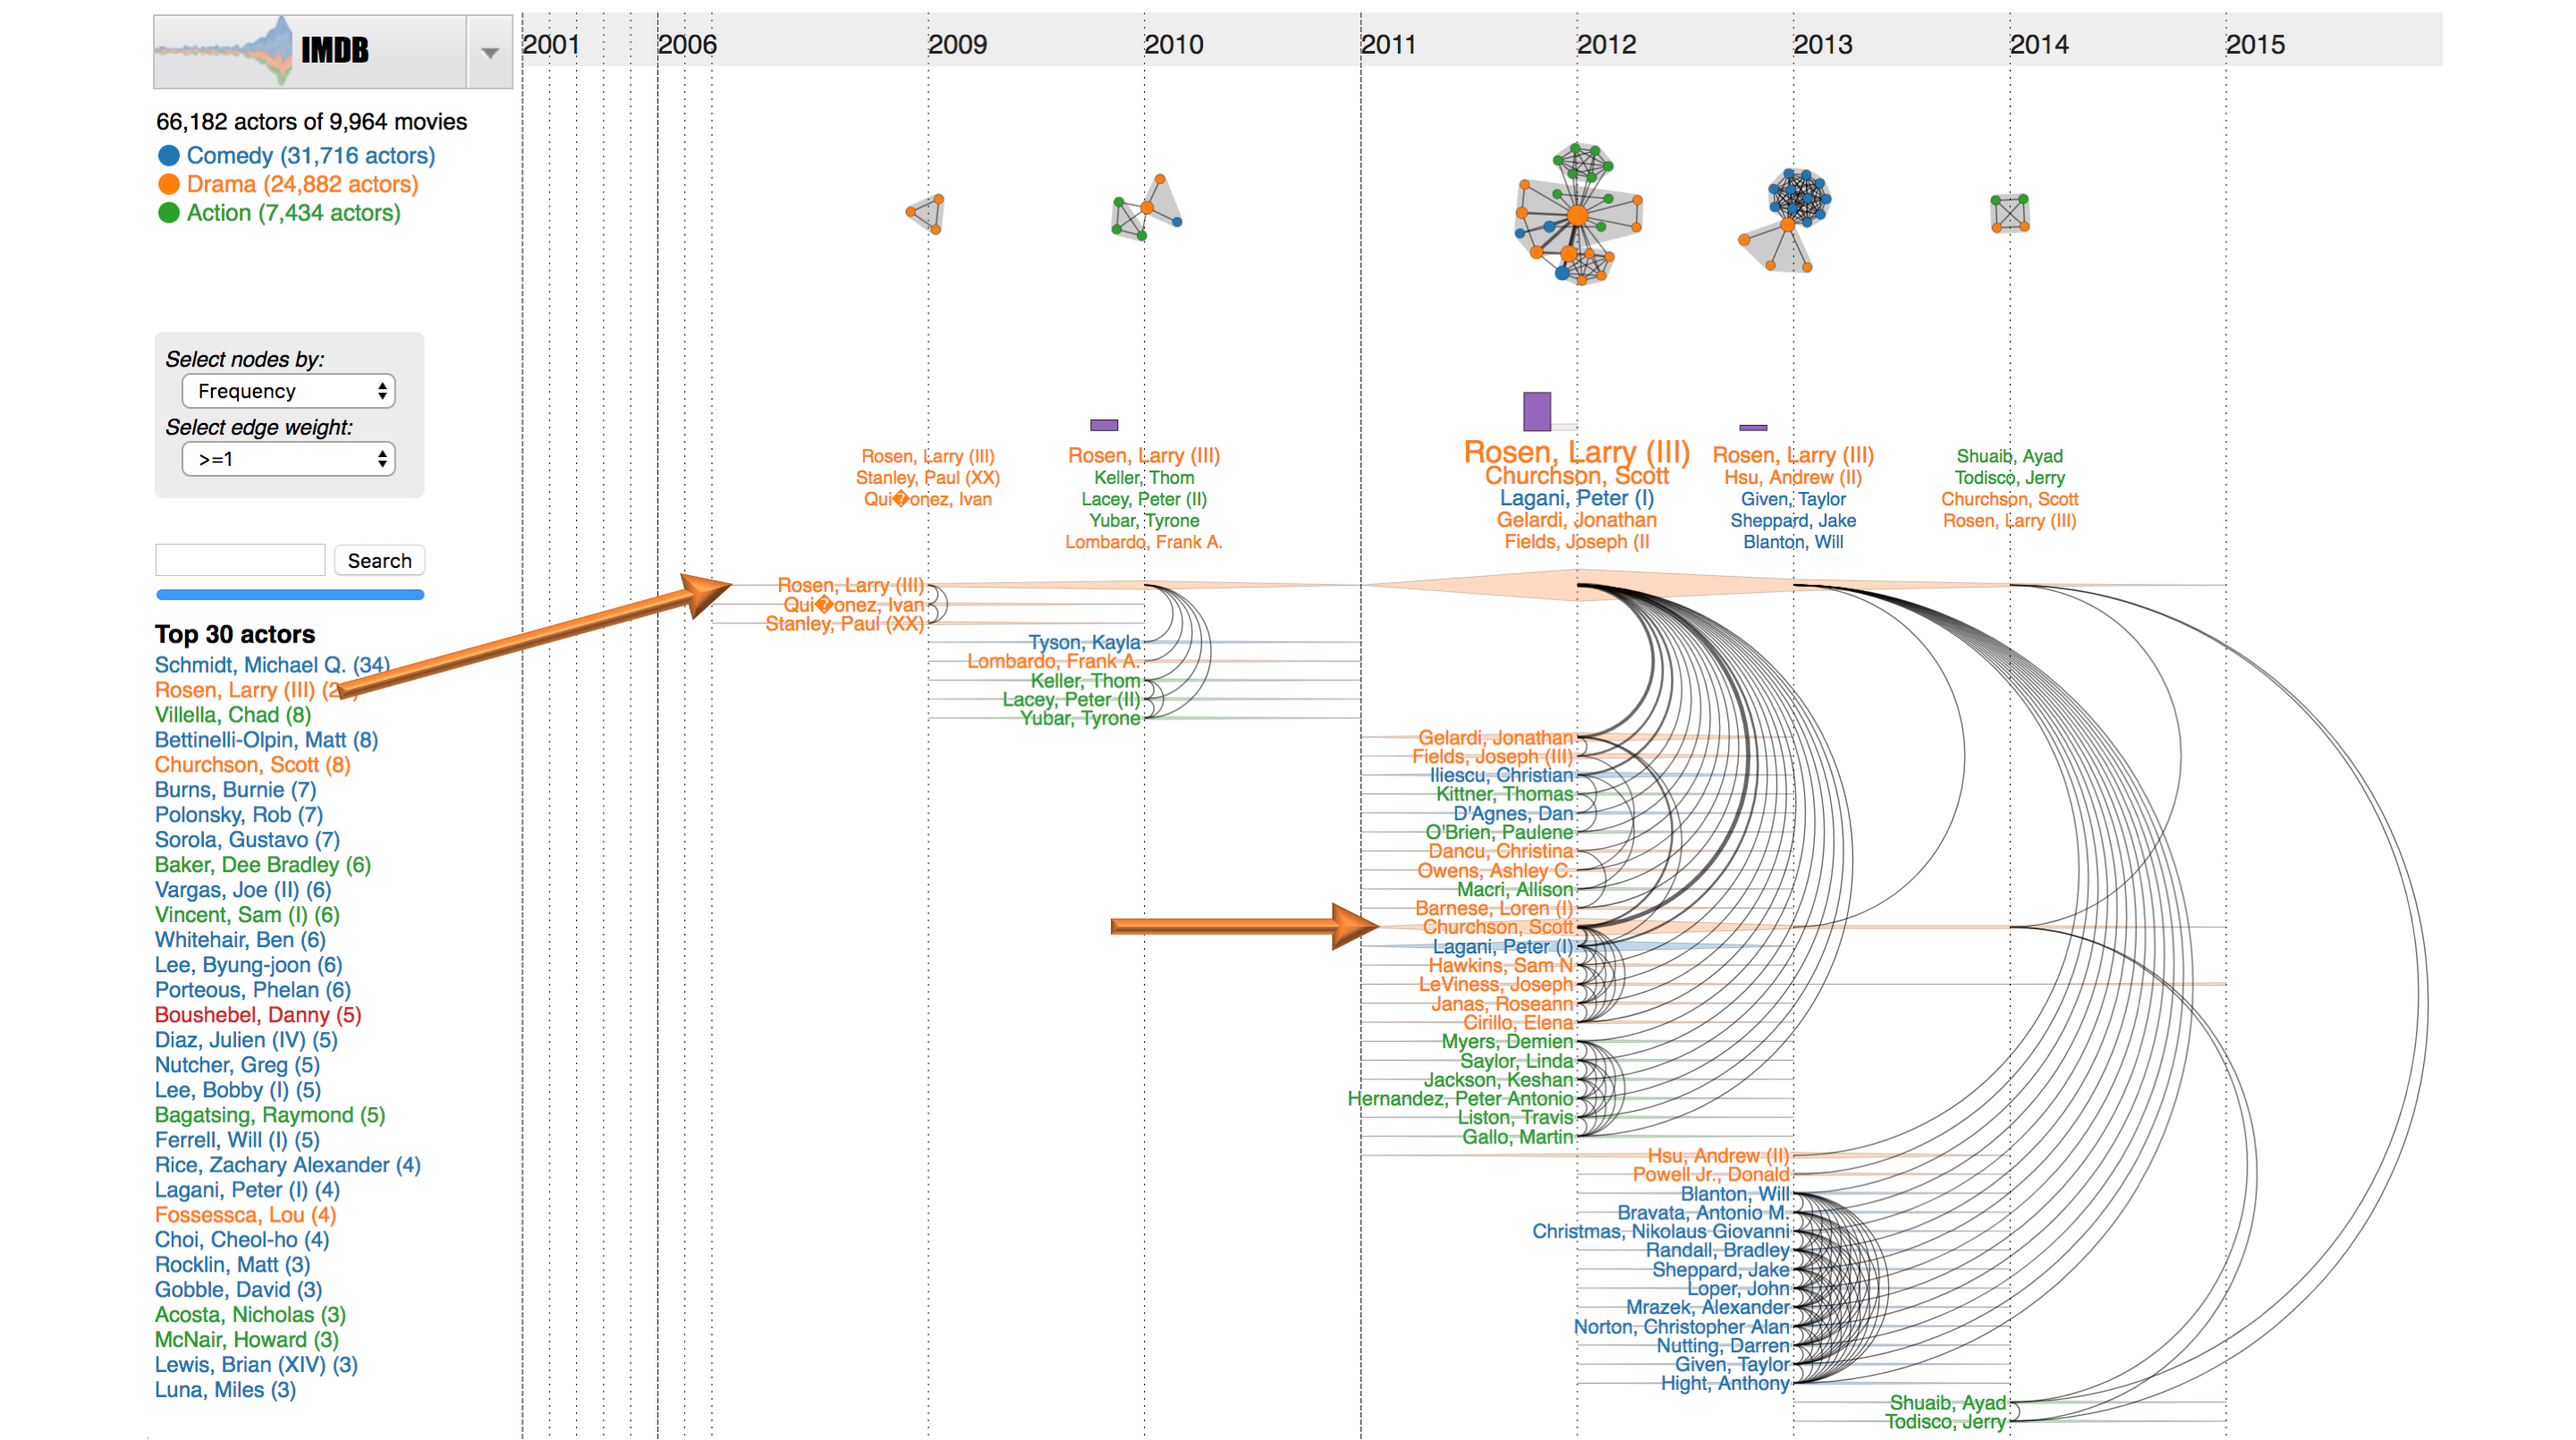
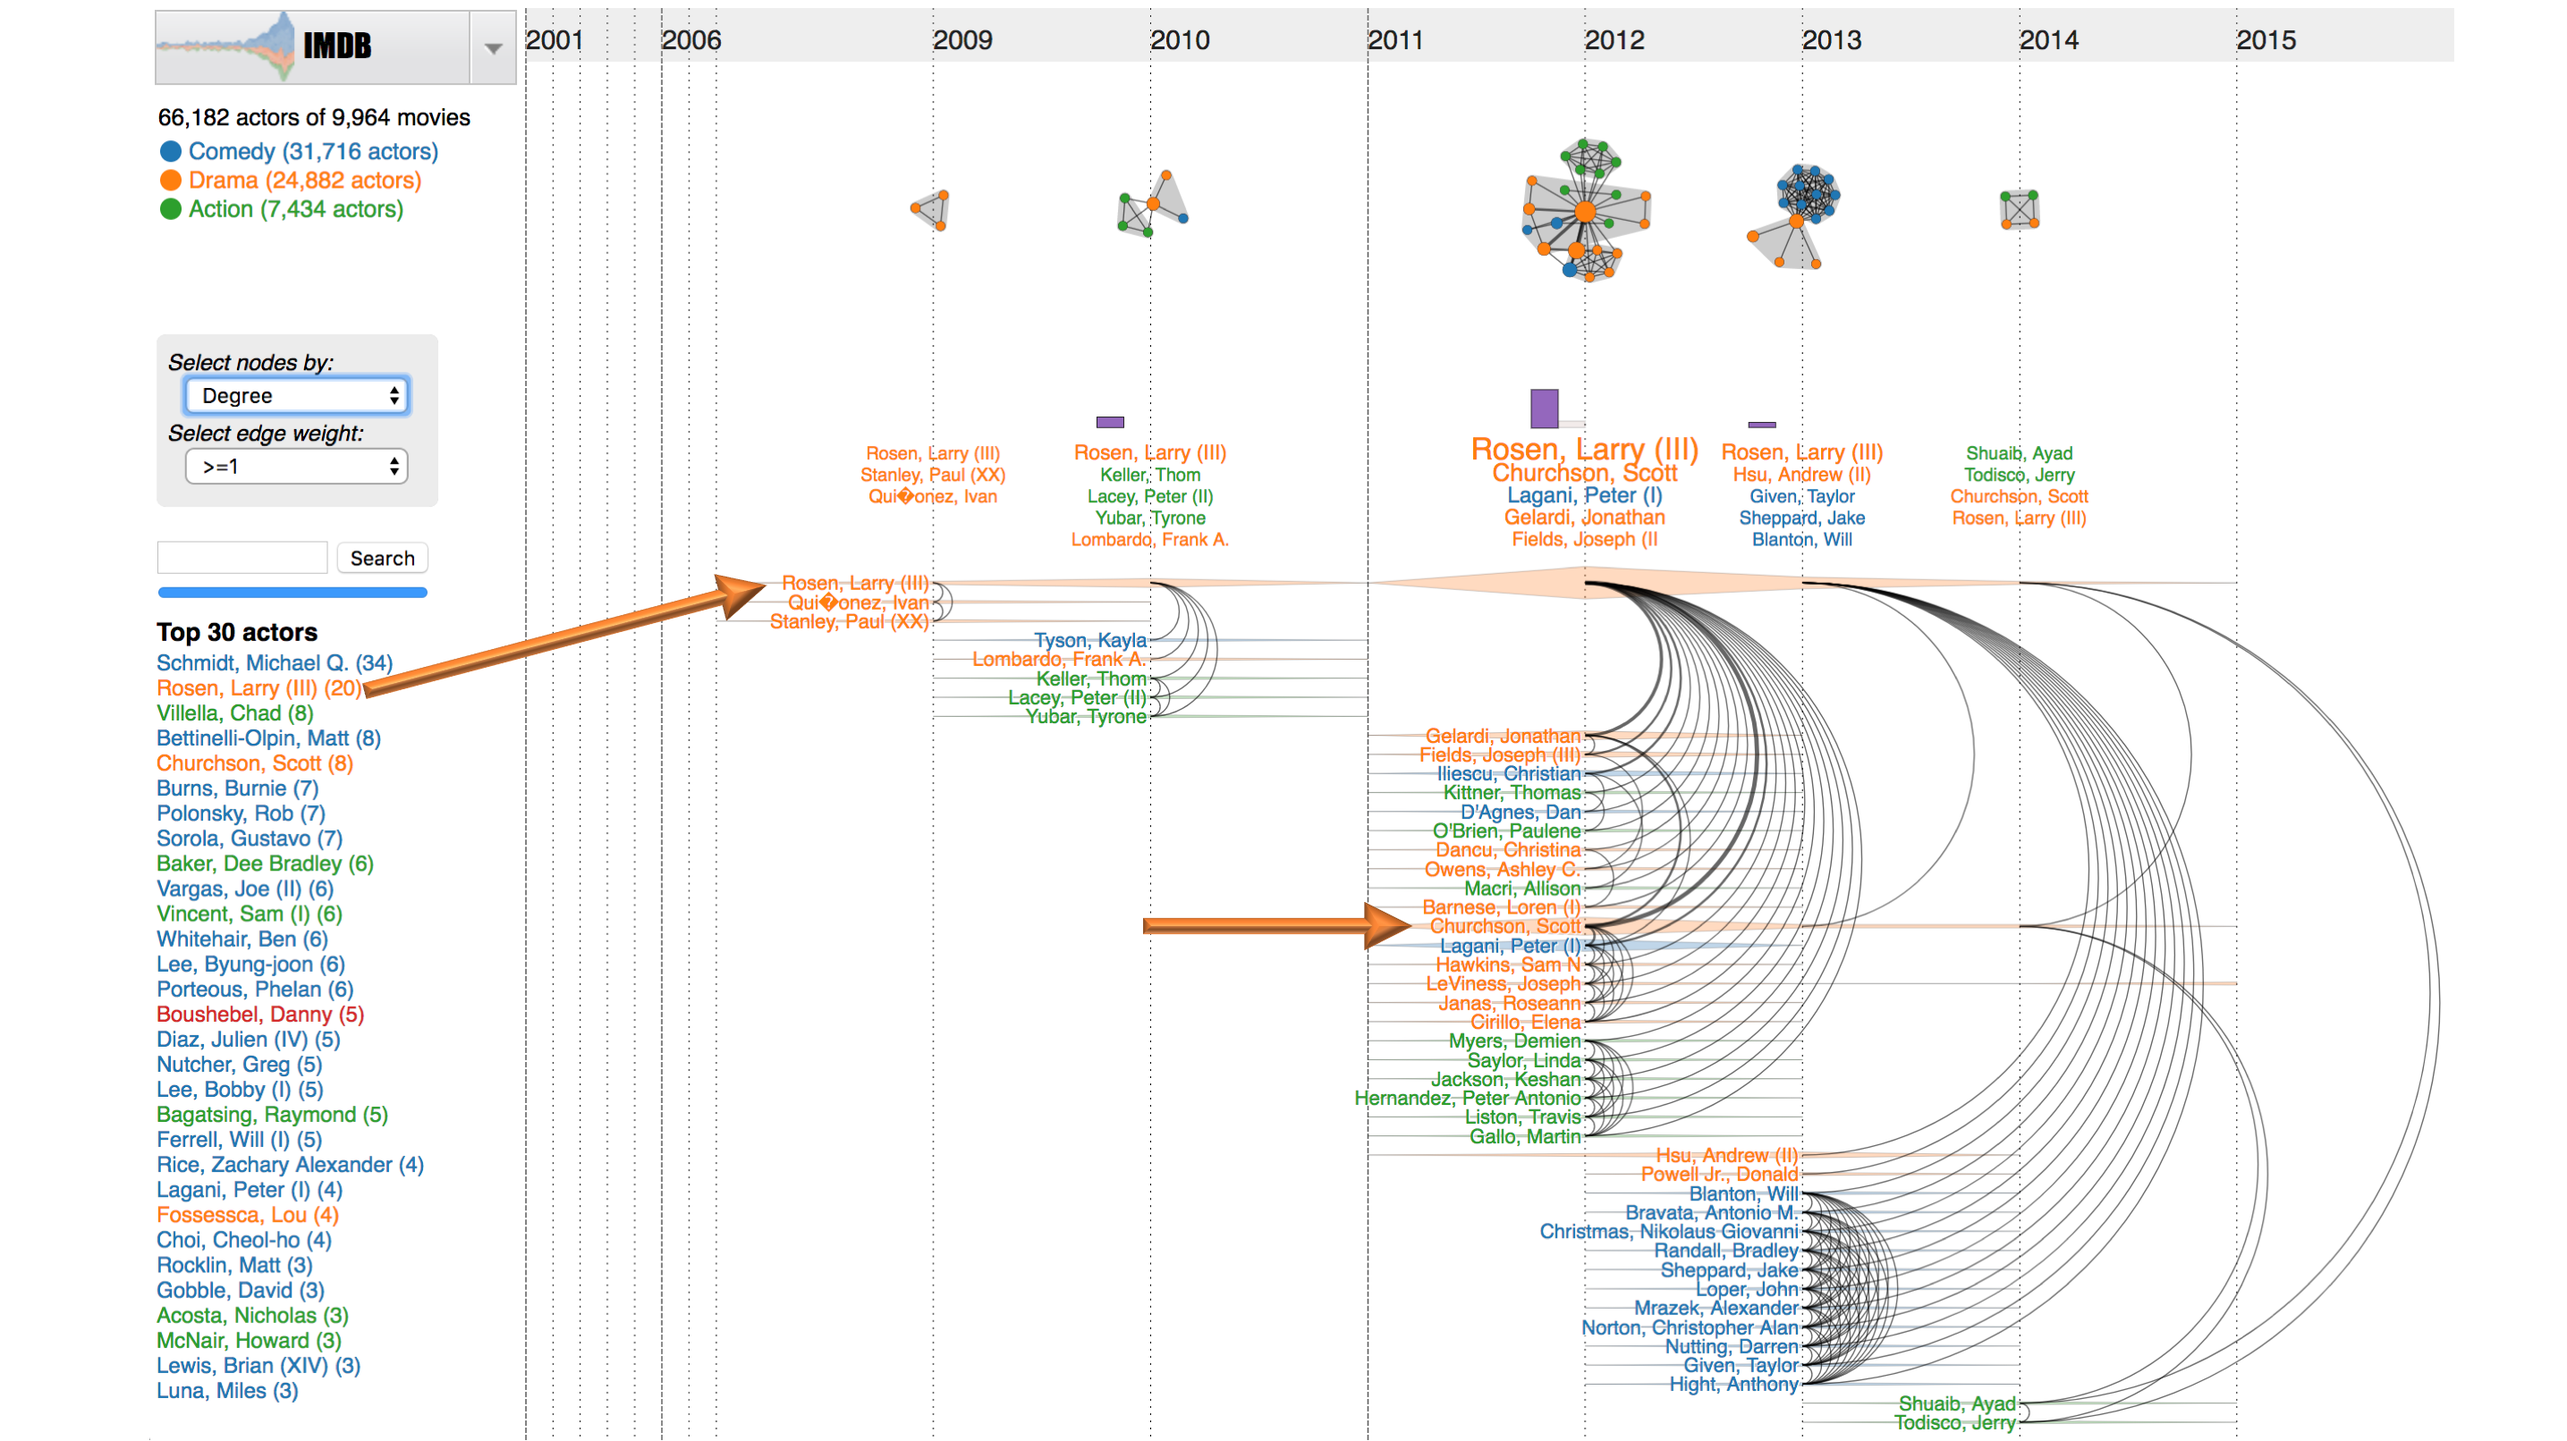
update

diff --git a/usecases.html b/usecases.html
@@ -56,26 +56,28 @@
 
 <h3>2. Other applications</h3>
 Although originally motivated to analyze text documents, we soon realized that <i>DycomDetector</i> has more general implications to other domains as well. We are going to demonstrate <i>DycomDetector</i> on the two movie co-star networks (<i>IMDB</i> and <i>PopCha</i>)
-<h4>2.1 IMDB co-star network</h4>
+<h4>2.1. IMDB co-star network</h4>
 	On the bottom left panel, we provide the list of top actors based on their appearance frequency in 9,964 movies rated 8 stars or higher from 1975 to 2015. This collection has 66,182 actors that are color-coded based on genre of his/her first movie: <span style="color:#2077b5">comedy</span>, <span style="color:#ff7f0f">drama</span>, and <span style="color:#2c9f2e">action</span>. Two actors relate as they act in the same movie. When users select an actor from the list (for example, <span style="color:#2077b5">Schmidt, Michael Q.</span>), the network on the right summarizes his acting career. In particular, each detected community on the top is associated to a highly rated movie. Larger clusters are movies with more actors/actresses.
 	<center><img src="images2/picsUsecases2/IMDB1.png" width="94%" alt="DycomDetector" /></center>
 In the second example of IMDB data, we selected <span style="color:#ff7f0f">Rosen, Larry (III)</span> (at the origin of the left arrow). As shown in the time series, he has many good movies in 2012. Four out of these movies, <span style="color:#ff7f0f">Rosen, Larry (III)</span> co-stars with <span style="color:#ff7f0f">Churchson, Scott</span> (at the second arrow) in <span style="color:#2077b5">Lola</span>, <span style="color:#ff7f0f">Nowhere to Hide</span>, <span style="color:#ff7f0f">Last Night</span>, and <span style="color:#ff7f0f">The Edge</span>. This is highlighted by the thickest arc connecting the two actors in 2012. Also notice that, the duo filmed <span style="color:#ff7f0f">Wrong Place, Wrong Time</span> (2013) and <span style="color:#2c9f2e">No One to Protect You</span> (2014). Movie details are displayed on mousing over links/arcs.
-	<center><img src="images2/picsUsecases2/IMDB2.png" width="87%" alt="DycomDetector" /></center>
+	<center><img src="images2/picsUsecases2/IMDB2.png" width="90%" alt="DycomDetector" /></center>
 
-<h4>2.2 PopCha movie network</h4>
+<h4>2.2. PopCha movie network</h4>
 The <a href="https://www.themoviedb.org/">PopCha database</a> has 172 movies and 1,201 actors. As depicted in the network snapshots, some actors involve multiple movies in the same year. When inspecting the time series and arc diagrams, we can see that some actors have the same co-actors over years, possibly in the same TV shows.
 
 	<center><img src="images2/picsUsecases2/PopCha1.png" width="92%" alt="DycomDetector" /></center>
 
-<h4>2.3 IEEE Visualization (IEEE VIS) publications</h4>
+<h4>2.3. IEEE Visualization publications</h4>
 	<a href="http://www.vispubdata.org/site/vispubdata/home">The IEEE VIS dataset</a> has 2,867 visualization papers accepted in 1990-2016. In following figure, we selected “<span style="color:#2c9f2e">Chris North</span>” from the top authors list (at the origin of the green arrow). Nodes are <span style="color:#2c9f2e">North</span>'s co-authors on his IEEE VIS publications which are ranked and scaled based on their publication frequency. Two authors are connected as they publish together to one of the IEEE VIS venues: <span style="color:#2077b5">Vis</span>, <span style="color:#ff7f0f">VAST</span>, <span style="color:#2c9f2e">InfoVis</span> , and <span style="color:#d52829">SciVis</span>. Detected communities on the top associate with <span style="color:#2c9f2e">North</span>'s VIS papers. The networks are empty in 2007 and 2008 since he did not have IEEE VIS publications in these two years. After that, <span style="color:#2c9f2e">North</span>'s collaboration is expanded significantly. Visualizing the time series, we can easily spot researchers who have strong collaborations with <span style="color:#2c9f2e">Chris North</span>. For example, his <a href="http://people.cs.vt.edu/~north/North-CV.pdf">PhD students</a>, <span style="color:#2c9f2e">Alex Endert</span> (<a href="http://va.gatech.edu/endert/bio/">graduated in 2012</a>) and <span style="color:#2c9f2e">Christopher Andrews</span> (<a href="http://www.cs.middlebury.edu/~candrews/resources/Andrews_CV.pdf">graduated in 2011</a>) at the orange arrows, continuously published at VIS conferences from 2009 to 2013.  
 	<center><img src="images2/picsUsecases2/VIS_ChrisNorth.png" width="96%" alt="DycomDetector" /></center>
 
 In another example, we have filtered “<span style="color:#2077b5">Daniel Keim</span>” publications. Larger nodes are authors with more publications in a given year. Authors are color-coded by their first publication venue. The word clouds show top co-authors of <span style="color:#2077b5">Keim</span> over years. The arcs diagrams at the bottom summarize <span style="color:#2077b5">Keim</span>'s collaboration network in the past 15 years. At the second blue arrow, <span style="color:#2077b5">Tobias Schreck</span> has a long collaboration history with <span style="color:#2077b5">Daniel Keim</span> since he was a PhD student (<a href="https://www.tugraz.at/institute/cgv/Schreck/">2002-2006</a>).
 	<center><img src="images2/picsUsecases2/VIS_DanielKeim.png" width="96%" alt="DycomDetector" /></center>
 
-<h4>2.3 IEEE Visualization (IEEE VIS) publications</h4>
-<center><img src="images2/picsUsecases2/VIS_DanielKeim.png" width="96%" alt="DycomDetector" /></center>
+<h4>2.4. Protein networks extracted from scientific literature</h4>
+<a href="https://github.com/clulab/reach/wiki/Datasets">The Fries Cards</a> is provided by <a href="https://github.com/clulab/reach">REACH group</a> at the University of Arizona. The following example shows a subset of 5,267 cards extracted from PMC papers from 1996-2015 focusing on two types of protein interactions: <span style="color:#2077b5">increase activity</span> and <span style="color:#ff7f0f">decrease activity</span>. The detected communities in network snapshots highligh proteins/proteins family and their interactions discovered over time. We can focus on the discovery around an interested protein by using the search box or mousing over its name in the time series. Conflicting examples (one paper says <i>protein A</i> <span style="color:#2077b5">increases activity</span> of <i>protein B</i> while another paper says <i>protein A</i> <span style="color:#ff7f0f">decreases activity</span> of <i>protein B</i>) can be detected using <i>DycomDetector</i>.
+
+<center><img src="images2/picsUsecases2/Cards_Fries.png" width="96%" alt="DycomDetector" /></center>
 	
 </div>
 

diff --git a/myscripts/main.js b/myscripts/main.js
@@ -42,7 +42,7 @@ var selectedCut;
 
 
 var XGAP_; // gap between months on xAxis
-var numLens = 4;
+var numLens = 3;
 
 function xScale(m) {
     if (isLensing) {
@@ -92,7 +92,7 @@ var isForFigure4 = false;
 
 var fileList = ["WikiNews","Huffington","CrooksAndLiars","EmptyWheel","Esquire","FactCheck"
                 ,"VIS_papers","IMDB","PopCha","Cards_PC","Cards_Fries"]
-var initialDataset = "VIS_papers";
+var initialDataset = "Cards_Fries";
 
 var fileName;
 
@@ -175,8 +175,8 @@ function loadData(){
             snapshotScale = 0.22; 
             if (fileName.indexOf("VIS")>=0){
                // minYear = 2000;
-                snapshotScale = 0.14;   
-                maxRel = 10;
+               // snapshotScale = 0.14;   
+               // maxRel = 10;
             }
             else if (fileName.indexOf("IMDB")>=0){
                 minYear = 1975;   // IMDB first movie was in 1919
@@ -186,15 +186,22 @@ function loadData(){
             }  
             else if (fileName.indexOf("PopCha")>=0){
                 minYear = 1980;   // PopCha first movie was in 1937
+
             }  
             else if (fileName.indexOf("Cards_PC")>=0){
                 snapshotScale = 0.17;    // PopCha first movie was in 1937
+            }  
+            else if (fileName.indexOf("Cards_Fries")>=0){
+                minYear = 1995; 
+                maxNodesInSnapshot = 50;
+                maxRel = 5;
+                snapshotScale = 0.20;    // PopCha first movie was in 1937
             }   
 
             //minYear = 2004;
             // Update months
             numMonth = maxYear - minYear +1;
-            XGAP_ = (width-xStep-110)/numMonth; // gap between months on xAxis
+            XGAP_ = (width-xStep-10)/numMonth; // gap between months on xAxis
 
             data.forEach(function (d) {    
                 d.m = d.m-minYear;

diff --git a/myscripts/main2.js b/myscripts/main2.js
@@ -20,11 +20,11 @@ var cutOffvalue=[];
 var snapshotScale = 0.20; // Snapshiot Size******************************************************
 var maxNodesInSnapshot =30; // ******************************************************
 
-var nodeRadiusRange = [0.18, 0.7]; 
+var nodeRadiusRange = [0.09, 1.1]; 
 var linkscaleForSnapshot = 0.15; 
    
 var maxHeightOfStreamGraph = 9;
-var yStepOfStreamGraph = 9;
+var yStepOfStreamGraph = 6;
 var maxRel = 15;   // for scaling, if count > 6 the link will looks similar to 6
 
 if (fileName.indexOf("VIS")>=0){
@@ -32,7 +32,7 @@ if (fileName.indexOf("VIS")>=0){
 }    
 var linkScale3 = function (count) {
     var scale = d3.scale.linear()
-                    .range([0.1, 3])
+                    .range([0.1, 2])
                     .domain([0, maxRel]);
     var count2 = (count>maxRel) ? maxRel : count;  // for scaling, if count > maxRel the link will looks similar to 6                       
     return  scale(count2);   
